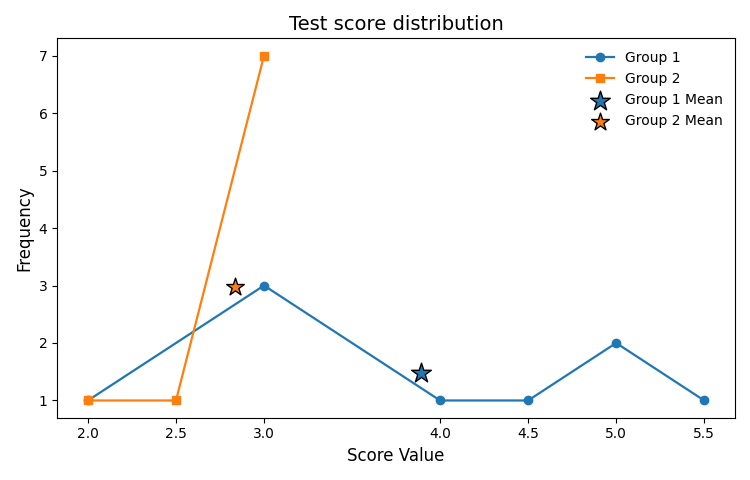
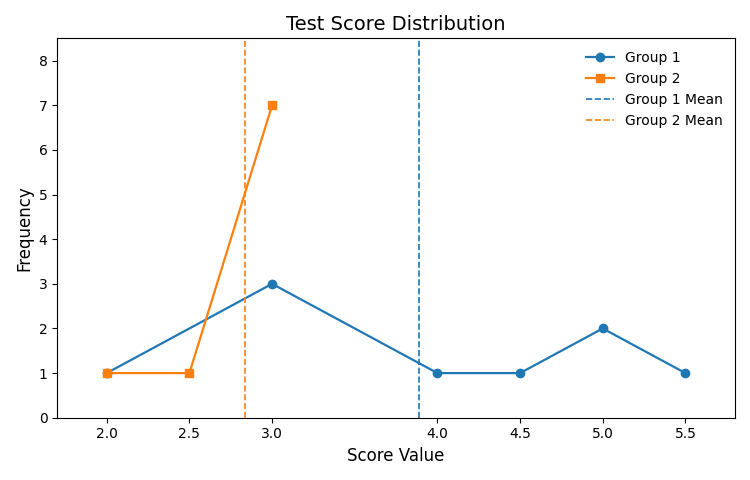
Quartz sync: Jan 16, 2026, 3:42 AM

diff --git a/quartz.layout.ts b/quartz.layout.ts
@@ -37,11 +37,11 @@ export const defaultContentPageLayout: PageLayout = {
         { Component: Component.ReaderMode() },
       ],
     }),
-    Component.TableOfContents(),
+    Component.DesktopOnly(Component.TableOfContents()),
   ],
   right: [
-    Component.Maze(),
-    Component.ShortAnswer(),
+    Component.DesktopOnly(Component.Maze()),
+    Component.DesktopOnly(Component.ShortAnswer()),
     Component.Graph(),
   ],
 }
